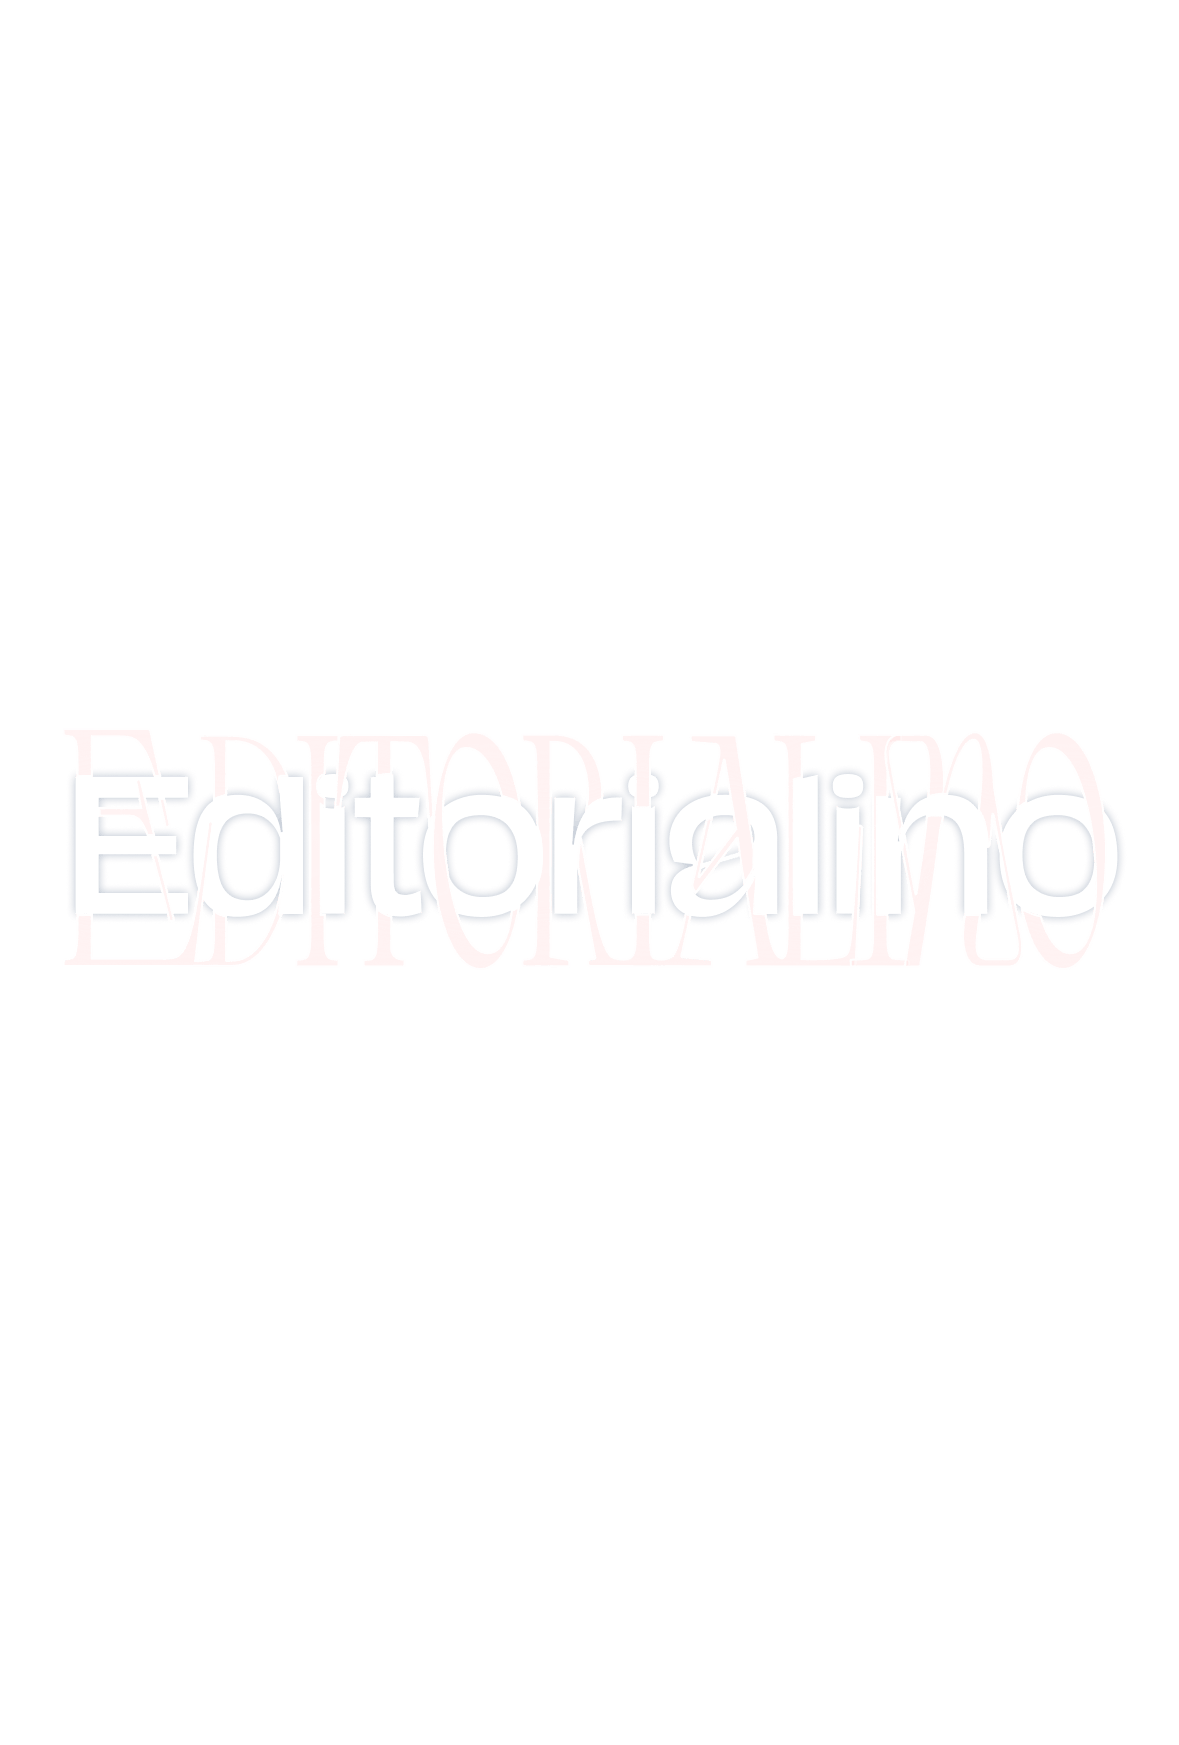
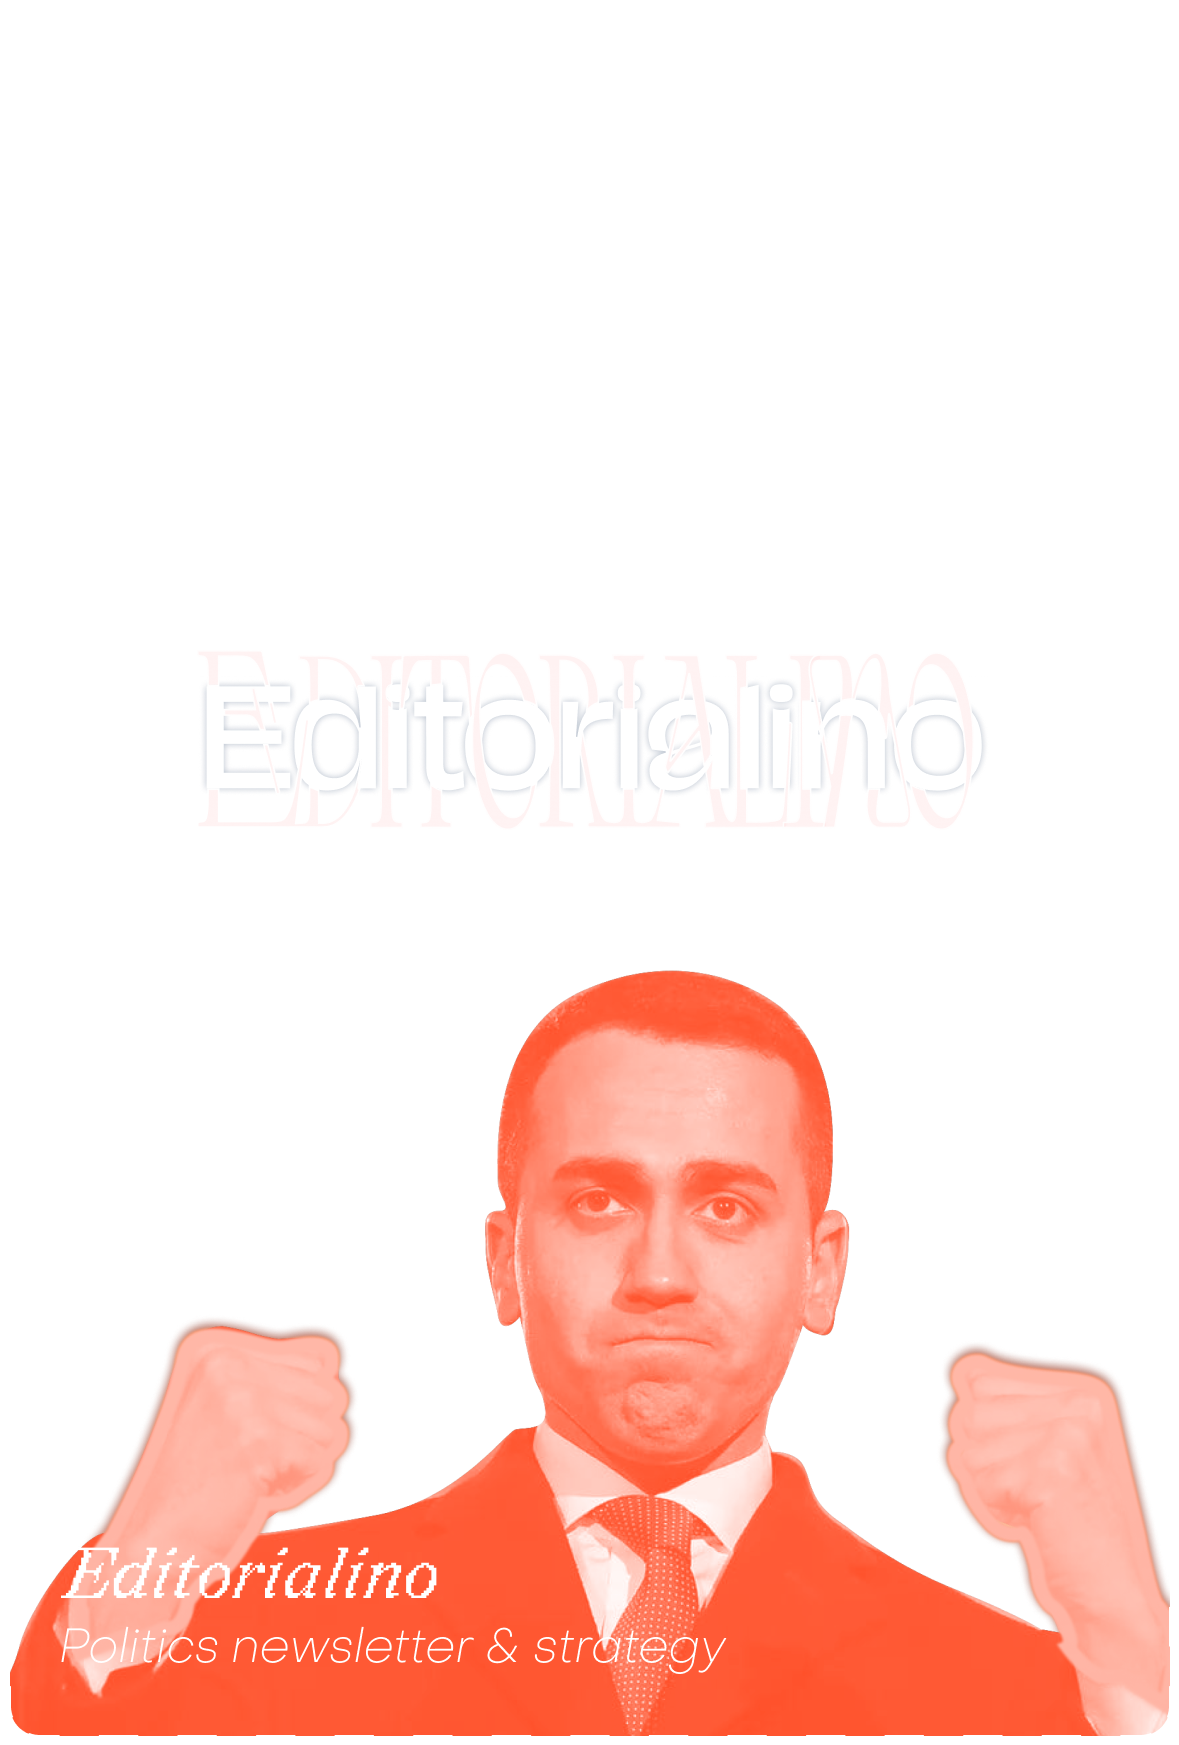
Updates

Changed region(s): [[0.0, 0.557, 1.0, 1.0], [0.3053, 0.4642, 0.3359, 0.4951], [0.2137, 0.4642, 0.2443, 0.4951]]

diff --git a/ROOT/Editorialino.html b/ROOT/Editorialino.html
@@ -64,9 +64,11 @@
                </strong>
             </h2>
             <p1>
-                PadFamily is a smart system developed and designed to help autistic subjects during their daily clothing routine.
-                Pad Family features tre different modules for in/out-house use, creating a system able to create
-                a seamless interaction which is way less confusing for the ASD user we are targetting.
+                Editorialino is a political newsletter project started with Chicco, a friend of mine graduated in 
+                political science. Editorialino is born to make users more aware of what's actually going on in 
+                italian politics, week by week. The communication is mediated but provides a heavy footprint of 
+                what's Chicco's political orientation, through an ironic tone of voice, without decaying into 
+                too subjectives or not-realistic thinking. 
             </p1>
         </div>
         <a href="#deep" class="scrolldown"><p2>SCROLL DOWN</p2></a>
@@ -114,12 +116,17 @@
     <section class="gallery_container" >
         <div class="description">
             <h2>
-                Main output
+                System & outputs
+                <a href="https://sites.google.com/view/editorialino/home">
+                    <svg xmlns="http://www.w3.org/2000/svg" width="40px" height="40px" viewBox="0 0 54 54" fill="black">
+                        <path d="M24 0H30H36H42H48H54V6V12V18V24V30H48V24V18V14H42V18H36V24H34V30H24V36H18V42H12V48H9V54H0V48H6V42H9V36H15V30H24V24H30V18H33V11H40V6H36H30H24V0Z"/>
+                    </svg>
+                </a> 
             </h2>
-            <p1> Each content was designed both for desktop and mobile.
-                The cards aimed to tell the story using a common and easy language and visual communication method.
-                Some cards had a “discover more” section with longer readings,
-                data visualizations and cuts of our interviews.
+            <p1> Everything sprouts from passion. And the passion is the fuel that connects the political world, 
+                mainly the news and the publications we get from it. And the bunch of followers that adhered to
+                editorialino's project. The newsletter isn't the only one communication method, we are planning to
+                extend everything to a broad project that could foster a weekly self-work about politics.
             </p1>
         </div>
         

diff --git a/ROOT/portfolio_style.css b/ROOT/portfolio_style.css
@@ -1355,9 +1355,9 @@ p3 {
   
   @keyframes fontCycle {
     0%, 100% { font-family: 'Redaction 35'; }
-    40% { font-family: 'Redaction 50'; }
-    70% { font-family: 'Redaction 70'; }
-    80% { font-family: 'Redaction 100'; }
+        40% { font-family: 'Redaction 50'; }
+        70% { font-family: 'Redaction 70'; }
+        80% { font-family: 'Redaction 100'; }
   }
 
 /* SCROLLBUTTON */
@@ -1373,7 +1373,7 @@ p3 {
 
     .scrolldown {
         position: absolute;
-        bottom: 100px;
+        bottom: 200px;
         right: 0%;
         width: 100%;
         text-align: center;
